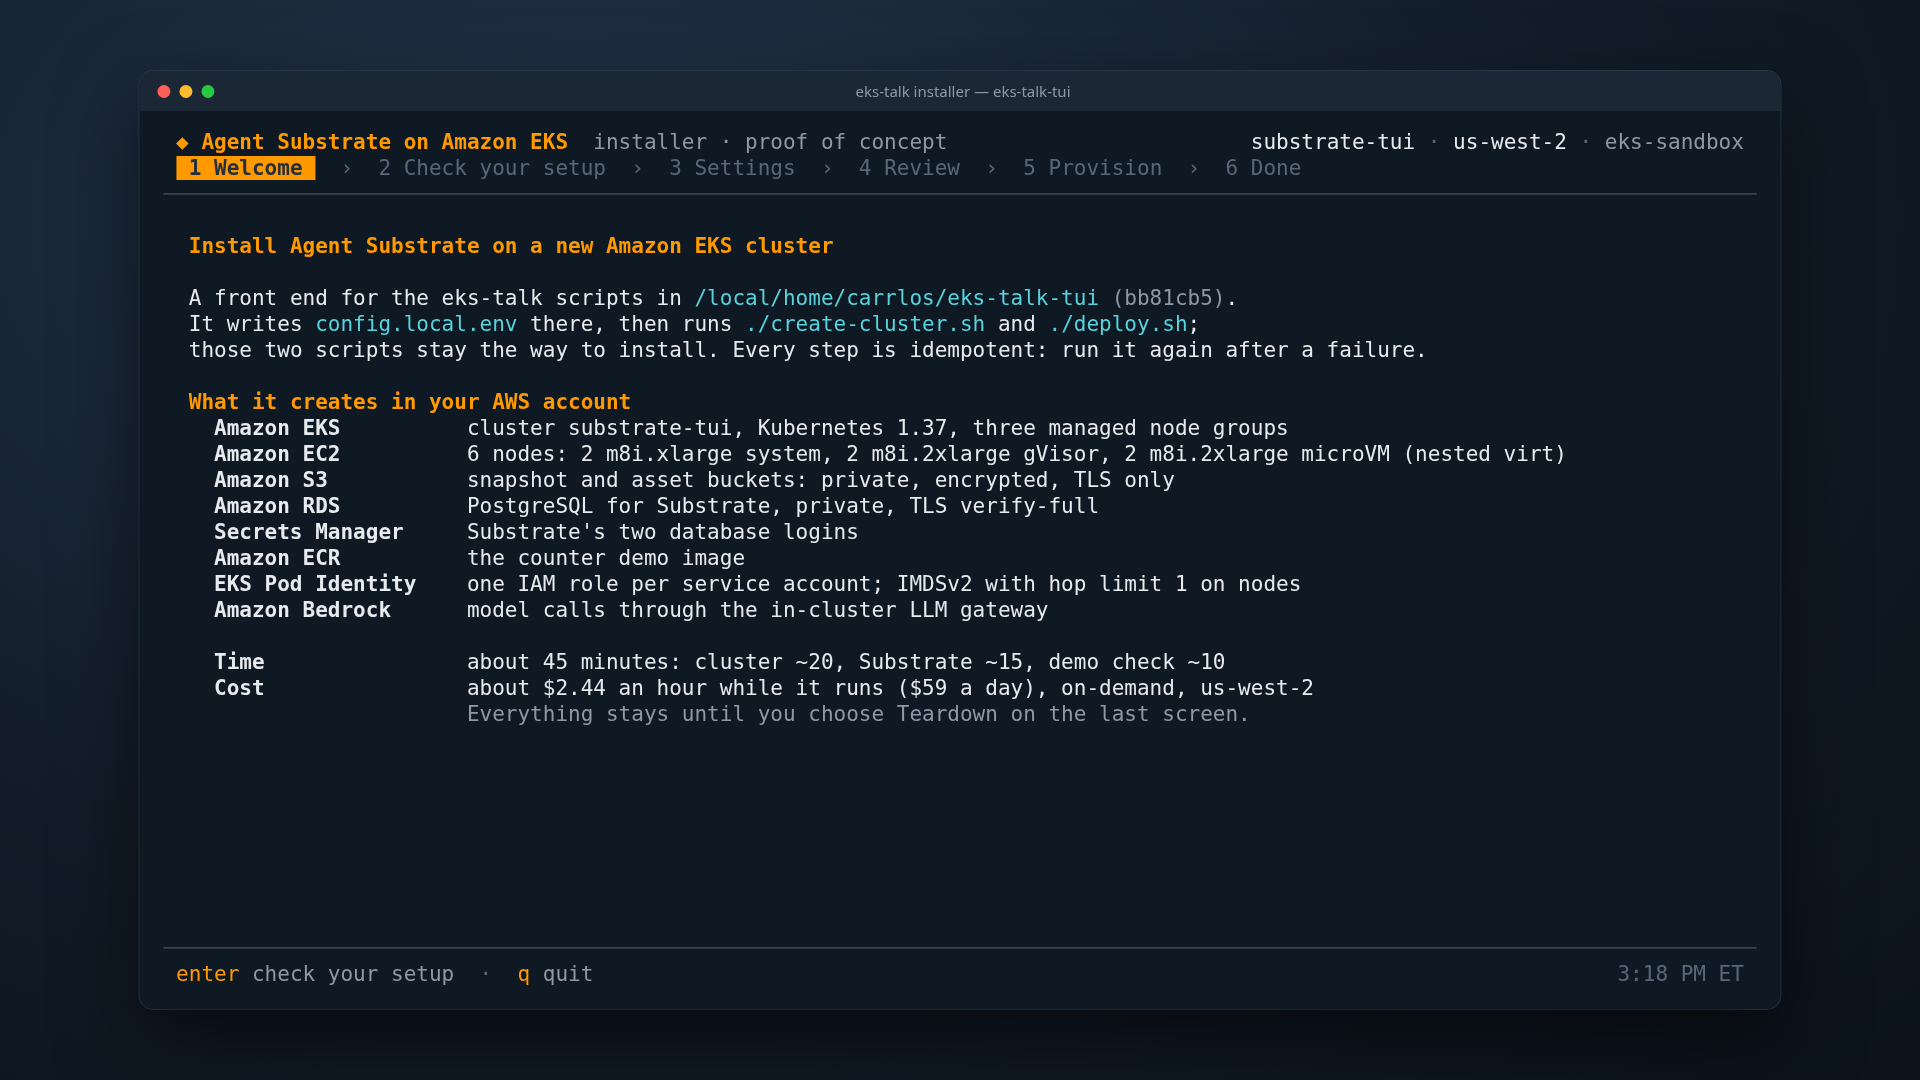
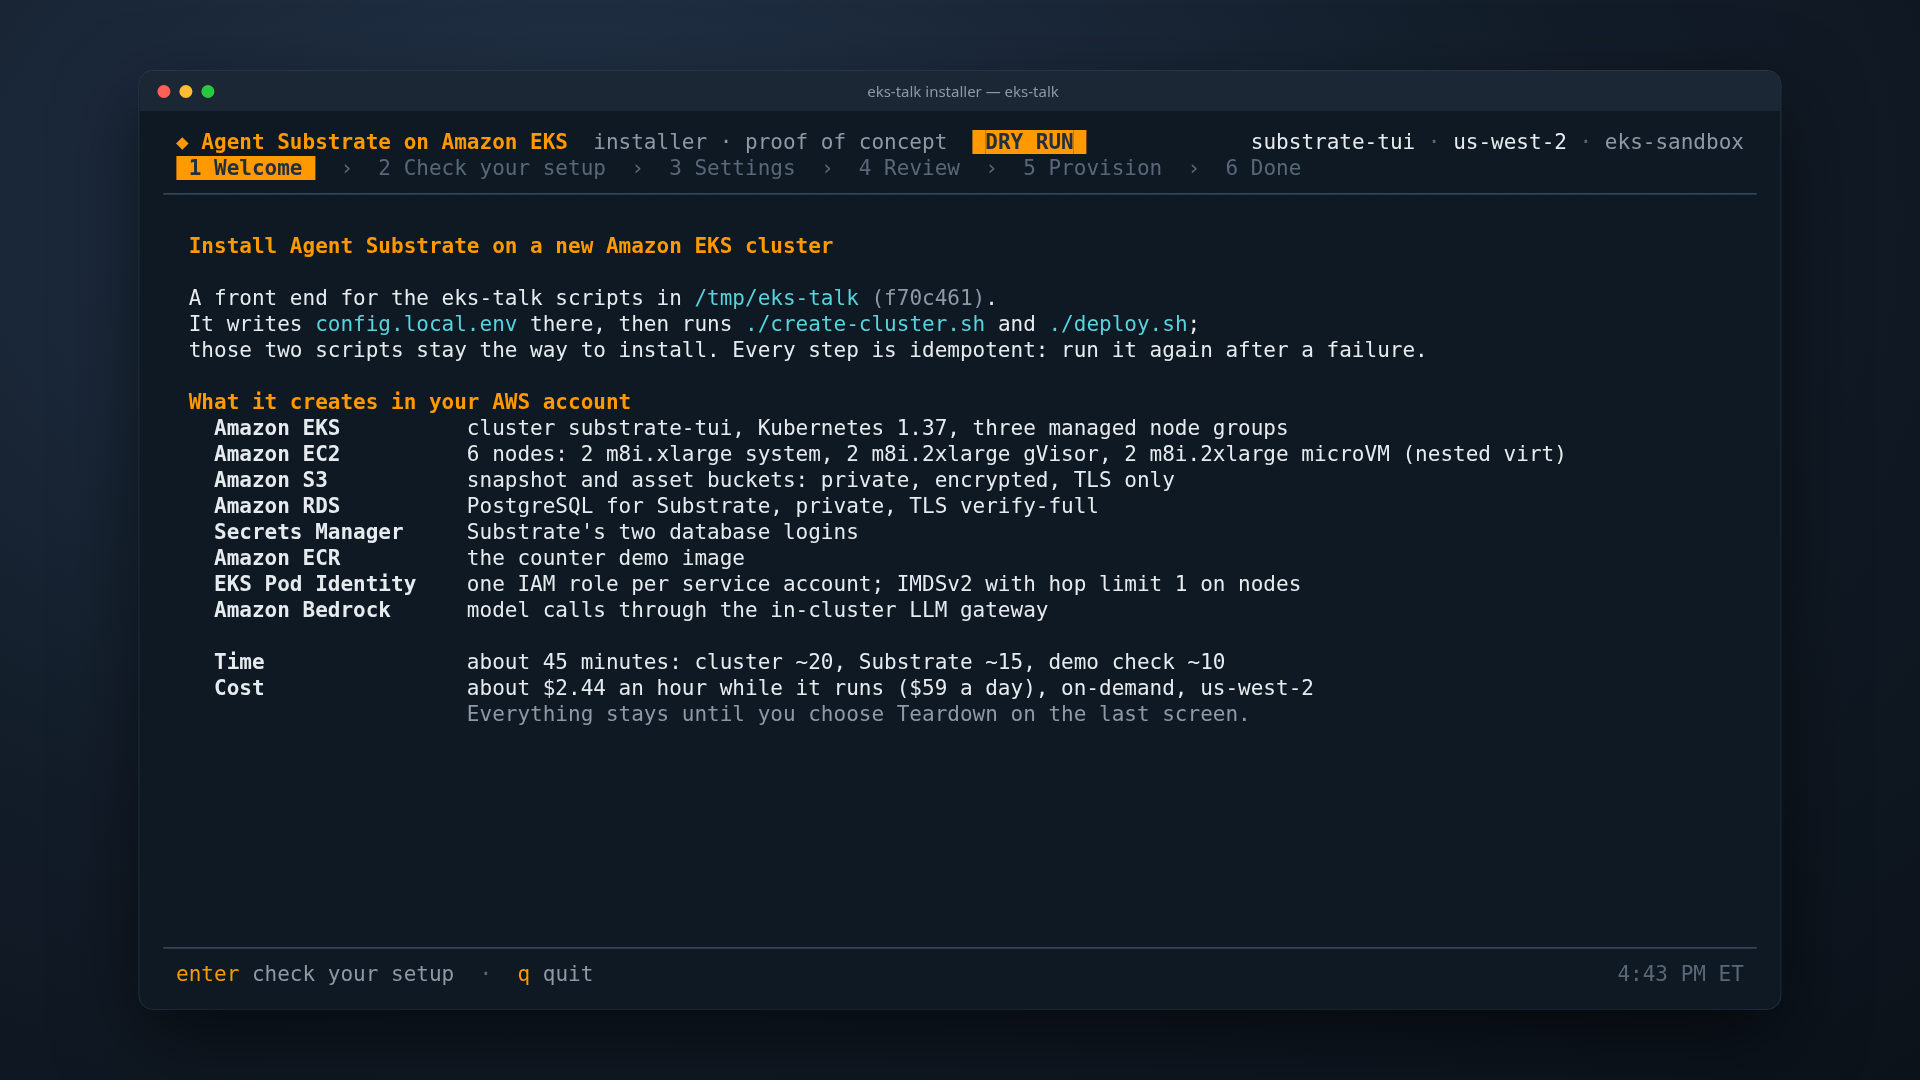
installer: redact to 111122223333 and scrub local paths from the record
--redact now prints the documentation placeholder account. The recorded run
no longer carries home paths or the cluster's OIDC issuer ID, and the PNGs
are redrawn from it.

diff --git a/installer/internal/ui/model.go b/installer/internal/ui/model.go
@@ -675,12 +675,13 @@ func (m *Model) addLog(s string) {
 
 var accountRe = regexp.MustCompile(`\b[0-9]{12}\b`)
 
-// redact masks the AWS account id: 1357xxxx4534.
+// redact replaces any AWS account id with the documentation placeholder
+// 111122223333.
 func (m Model) redact(s string) string {
 	if !m.opt.Redact {
 		return s
 	}
-	return accountRe.ReplaceAllStringFunc(s, func(a string) string { return a[:4] + "xxxx" + a[8:] })
+	return accountRe.ReplaceAllString(s, "111122223333")
 }
 
 // View implements tea.Model.

diff --git a/installer/internal/ui/ui_test.go b/installer/internal/ui/ui_test.go
@@ -258,7 +258,7 @@ func TestReopenLastRun(t *testing.T) {
 
 func TestRedact(t *testing.T) {
 	m := Model{opt: Options{Redact: true}}
-	if got := m.redact("substrate-tui-snap-135728714534-us-west-2"); got != "substrate-tui-snap-1357xxxx4534-us-west-2" {
+	if got := m.redact("substrate-tui-snap-444455556666-us-west-2"); got != "substrate-tui-snap-111122223333-us-west-2" {
 		t.Error(got)
 	}
 }

diff --git a/installer/README.md b/installer/README.md
@@ -50,7 +50,7 @@ directory's `.work/`, so a second checkout drives a second cluster.
 | `--speed N` | 60 | `--dry-run` replays N times faster (long gaps are capped at 1.5 s) |
 | `--auto` | off | walk the screens on their own; with `--dry-run`, a hands-off demo that quits at Done. It never starts a teardown |
 | `--done` | off | open on the Done screen of the checkout's last install (read from `.work/installer/`), with its summary and Teardown |
-| `--redact` | off | mask the AWS account id on screen and in snapshots (`1357xxxx4534`) |
+| `--redact` | off | replace the AWS account id with `111122223333` on screen and in snapshots |
 | `--snapshot-size WxH` | `126x33` | the size snapshots are drawn at |
 | `--html DIR` | | rewrite `NAME.html` from every `NAME.ansi` in DIR, then exit |
 
@@ -93,8 +93,9 @@ To come back to a finished install later (its summary, or Teardown):
 ## Screenshots
 
 ```bash
-INSTALLER_SNAPSHOT_DIR=/tmp/shots go run . --dry-run --redact
-node docs/render.mjs /tmp/shots docs 02-check=check 04-review=review
+INSTALLER_SNAPSHOT_DIR=/tmp/shots go run . --dry-run --auto --redact
+node docs/render.mjs /tmp/shots docs 01-welcome=welcome 02-check=check \
+  03-settings=settings 04-review=review 05-provision-016=provision 06-done=done
 ```
 
 With `INSTALLER_SNAPSHOT_DIR` set, the installer writes each screen as it
@@ -103,8 +104,8 @@ first shows it (`01-welcome`, `02-check`, `03-settings`, `04-review`, one
 `s`), as `NAME.ansi` and as `NAME.html`: a 1920x1080 page with the screen in
 a terminal window. `docs/render.mjs` turns the pages into PNGs with headless
 Chromium (Playwright from the talk-video-record skill). The PNGs in `docs/`
-come from the live install of `substrate-tui` (`--redact`); `done.png` was
-drawn by `--done` from that install's record, after a layout fix:
+come from the command above: a `--dry-run` replay of the live install of
+`substrate-tui`, with the account id and local paths replaced:
 
 | File | Screen |
 |---|---|
